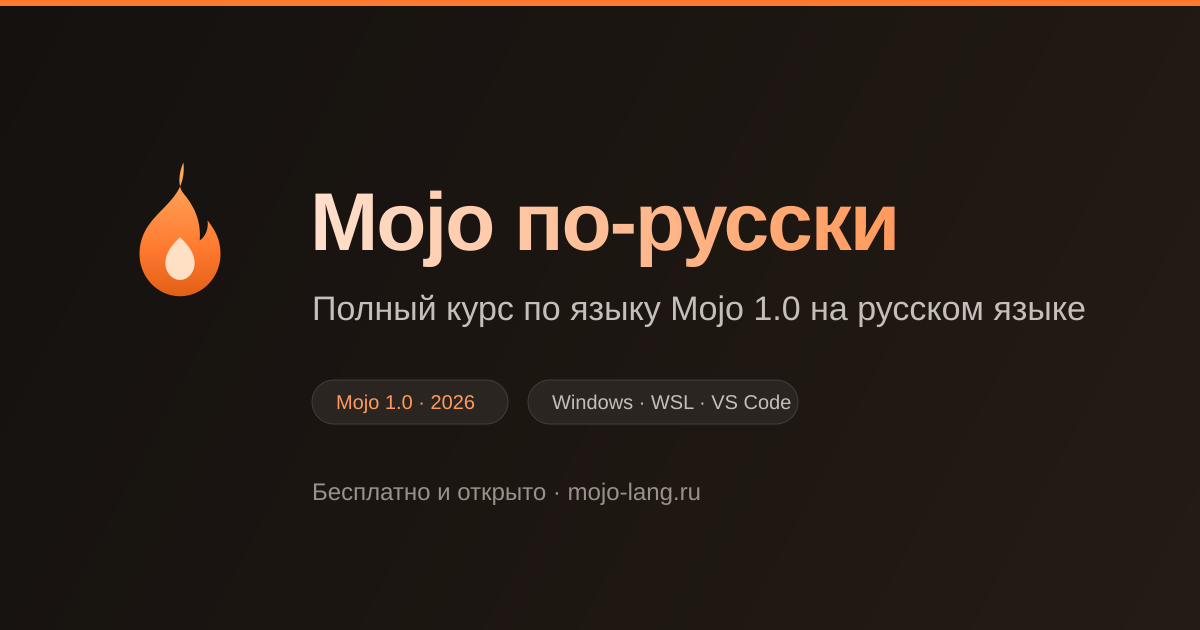
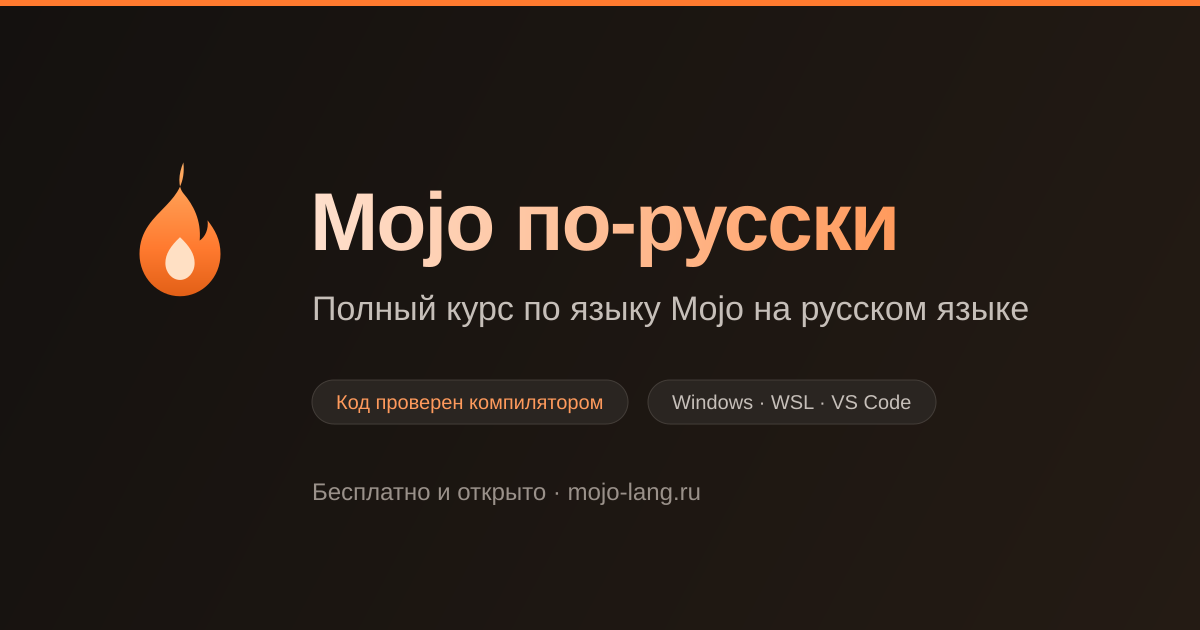
сайт: описание без привязки к версии Mojo
Курс будет развиваться вместе с языком, поэтому версия больше не
зашита в общие описания сайта: tagline, meta description, Schema.org,
манифест, alt превью и сама картинка для соцсетей. На превью вместо
«Mojo 1.0 · 2026» теперь «Код проверен компилятором».

Точная версия остаётся там, где она правдива и обновляется вместе
с главами: плашка «проверено на Mojo X» в подвале страниц (значение
по умолчанию поднято до 1.1.0) и бейдж в README.

Changed region(s): [[0.2775, 0.6032, 0.7708, 0.6635], [0.6167, 0.4524, 0.925, 0.5127]]

diff --git a/src/consts.ts b/src/consts.ts
@@ -1,5 +1,5 @@
 /** Версия Mojo, на которой проверены примеры сайта по умолчанию. */
-export const MOJO_VERSION = '1.0.0';
+export const MOJO_VERSION = '1.1.0';
 
 /** Сайт проекта. */
 export const SITE_URL = 'https://mojo-lang.ru';

diff --git a/README.md b/README.md
@@ -4,12 +4,12 @@
 
 # Mojo по-русски
 
-**Бесплатный курс по языку программирования Mojo 1.0 на русском языке.**
+**Бесплатный курс по языку программирования Mojo на русском языке.**
 От «у меня Windows и я ничего не понимаю» до собственной библиотеки с SIMD.
 
 ### [📖 Читать курс →](https://mojo-lang.ru/)
 
-[![Mojo 1.0](https://img.shields.io/badge/Mojo-1.0-ff7a2f)](https://mojolang.org/)
+[![Проверено на Mojo 1.1](https://img.shields.io/badge/проверено%20на-Mojo%201.1-ff7a2f)](https://mojolang.org/)
 [![Сборка сайта](https://github.com/V-Moskalenko/mojo-ru/actions/workflows/deploy.yml/badge.svg)](https://github.com/V-Moskalenko/mojo-ru/actions/workflows/deploy.yml)
 [![Примеры компилируются](https://github.com/V-Moskalenko/mojo-ru/actions/workflows/check-examples.yml/badge.svg)](https://github.com/V-Moskalenko/mojo-ru/actions/workflows/check-examples.yml)
 [![Лицензия текста: CC BY-NC-SA 4.0](https://img.shields.io/badge/текст-CC%20BY--NC--SA%204.0-blue)](LICENSE-CONTENT)
